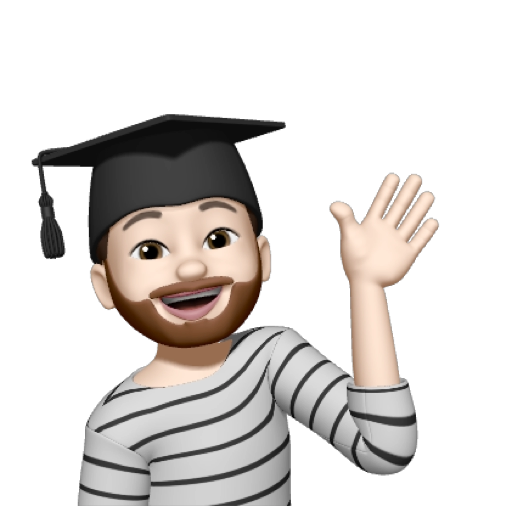
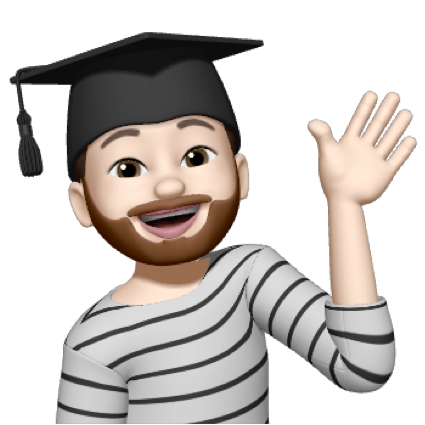
style : background and @media adjustments

diff --git a/src/pages/style.ts b/src/pages/style.ts
@@ -1,4 +1,3 @@
-import Image from 'next/image';
 import styled from 'styled-components';
 
 export const Container = styled.div`
@@ -6,6 +5,11 @@ export const Container = styled.div`
   align-items: center;
   justify-content: center;
   height: calc(100vh - 100px);
+  background: linear-gradient(
+    45deg,
+    rgba(47, 25, 126, 0.7) 0%,
+    rgba(120, 16, 192, 0.8) 75%
+  );
 `;
 export const Content = styled.div`
   height: 100%;
@@ -14,37 +18,36 @@ export const Content = styled.div`
   width: 1120px;
   align-items: center;
   justify-content: space-around;
-  @media (max-width: 600px) {
-    padding: 5px;
-  }
-  @media (max-width: 760px) {
-    justify-content: space-around;
+  @media (max-width: 900px) {
     flex-direction: column-reverse;
   }
+  @media (max-width: 650px) {
+    padding: 5px;
+  }
 `;
-export const Infos = styled.div`
-  width: 50%;
+export const Infos = styled.section`
+  width: 60%;
   display: grid;
   text-align: start;
-  @media (max-width: 760px) {
+  @media (max-width: 900px) {
     width: 90%;
   }
 `;
-export const Name = styled.span`
+export const Name = styled.h1`
   font-size: 40px;
   font-weight: 500;
-  @media (max-width: 760px) {
+  @media (max-width: 900px) {
     font-size: 25px;
   }
 `;
-export const Especialization = styled.span`
+export const Especialization = styled.h4`
   color: lightgray;
   margin-bottom: 10px;
 `;
-export const Intro = styled.span`
+export const Intro = styled.p`
   color: lightgray;
   text-align: justify;
-  @media (max-width: 760px) {
+  @media (max-width: 900px) {
     font-size: 15px;
   }
 `;
@@ -59,23 +62,44 @@ export const LinkProjects = styled.button`
     font-size: 20px;
   }
 `;
-export const Logo = styled.div`
-  width: 50%;
+export const Logo = styled.section`
+  width: 300px;
+  height: 400px;
   display: flex;
+  border-radius: 10%;
   align-items: center;
   justify-content: center;
+  background: radial-gradient(
+    circle,
+    rgb(100, 100, 100) 0%,
+    rgb(18, 18, 18) 70%
+  );
   img {
-    width: 25rem;
-    height: 25rem;
+    width: 280px;
+    height: 280px;
   }
-  @media (max-width: 760px) {
-    width: 90%;
-  }
-  @media (max-width: 600px) {
+  @media (max-width: 900px) {
+    width: 260px;
+    height: 260px;
     img {
-      width: 18rem;
-      height: 18rem;
+      width: 220px;
+      height: 220px;
+    }
+  }
+  @media (max-width: 650px) {
+    width: 220px;
+    height: 220px;
+    img {
+      width: 180px;
+      height: 180px;
+    }
+  }
+  @media (max-width: 400px) {
+    width: 180px;
+    height: 180px;
+    img {
+      width: 130px;
+      height: 130px;
     }
   }
 `;
-export const Img = styled(Image)``;

diff --git a/src/pages/index.tsx b/src/pages/index.tsx
@@ -1,7 +1,6 @@
 import Link from 'next/link';
 import { FaArrowRight } from 'react-icons/fa';
 import {
-  Img,
   Name,
   Logo,
   Intro,
@@ -33,12 +32,7 @@ export default function Home() {
           </Link>
         </Infos>
         <Logo>
-          <Img
-            width={'230px'}
-            height={'230px'}
-            alt={'My avatar'}
-            src={'/images/avatar.png'}
-          />
+          <img src="/images/avatar.png" alt={'My avatar'}></img>
         </Logo>
       </Content>
     </Container>

diff --git a/src/styles/globals.css b/src/styles/globals.css
@@ -10,7 +10,7 @@
 body {
   color: white;
   text-align: -webkit-center;
-  background-color: #121214;
+  background-color: rgb(18, 18, 18);
 }
 
 a,
